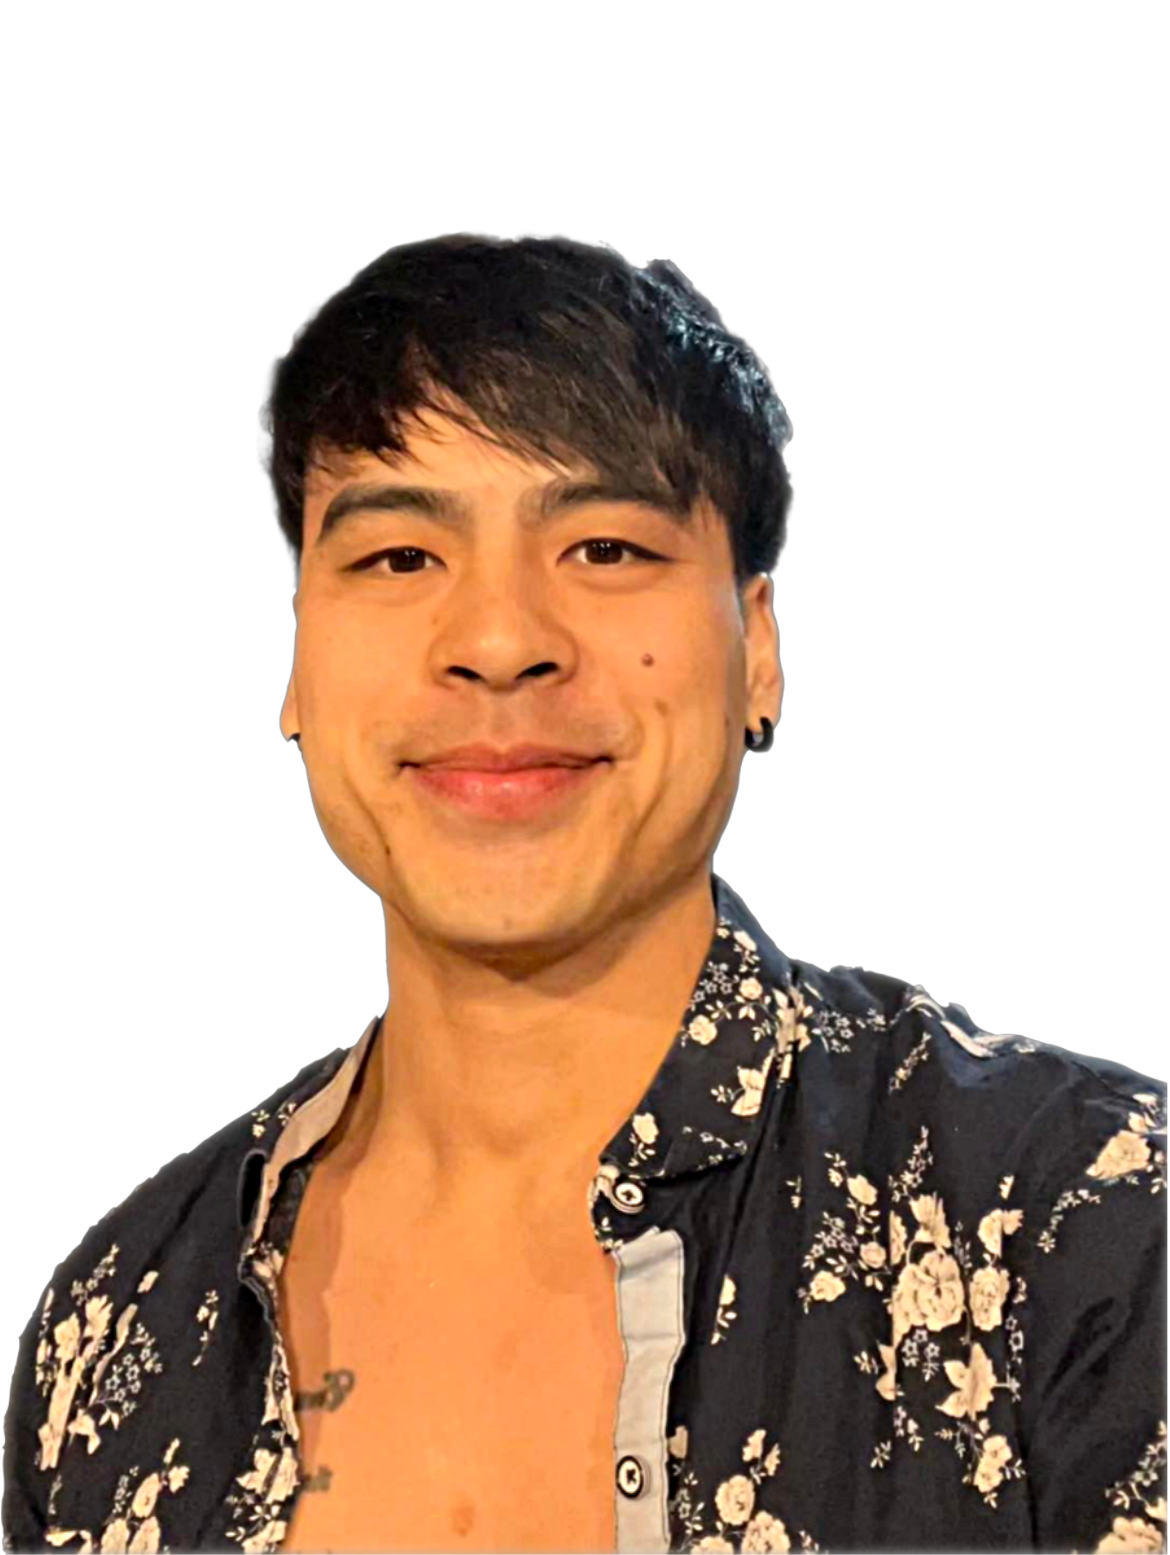
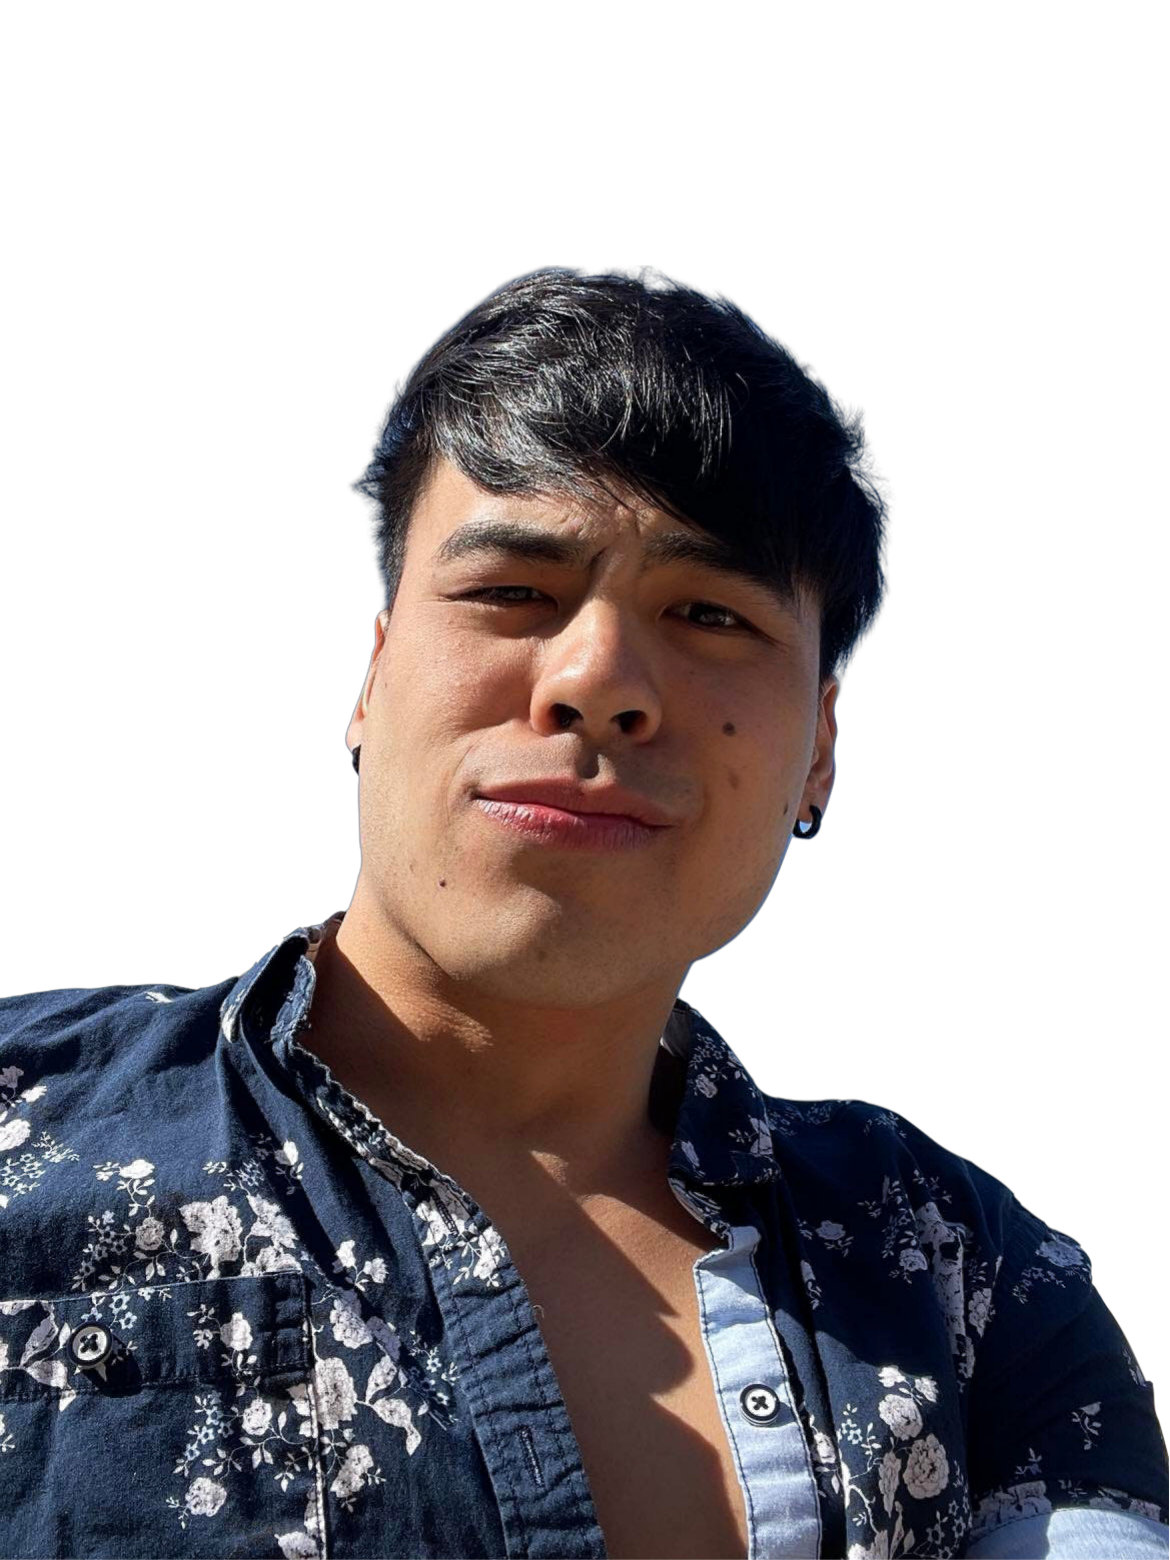
updated content

diff --git a/src/components/header/Header.jsx b/src/components/header/Header.jsx
@@ -1,6 +1,6 @@
 import React from "react"
 import CTA from  './CTA'
-import ME from '../../assets/me.png'
+import ME from '../../assets/mee.png'
 import HeaderSocial from './HeaderSocial'
 
 
